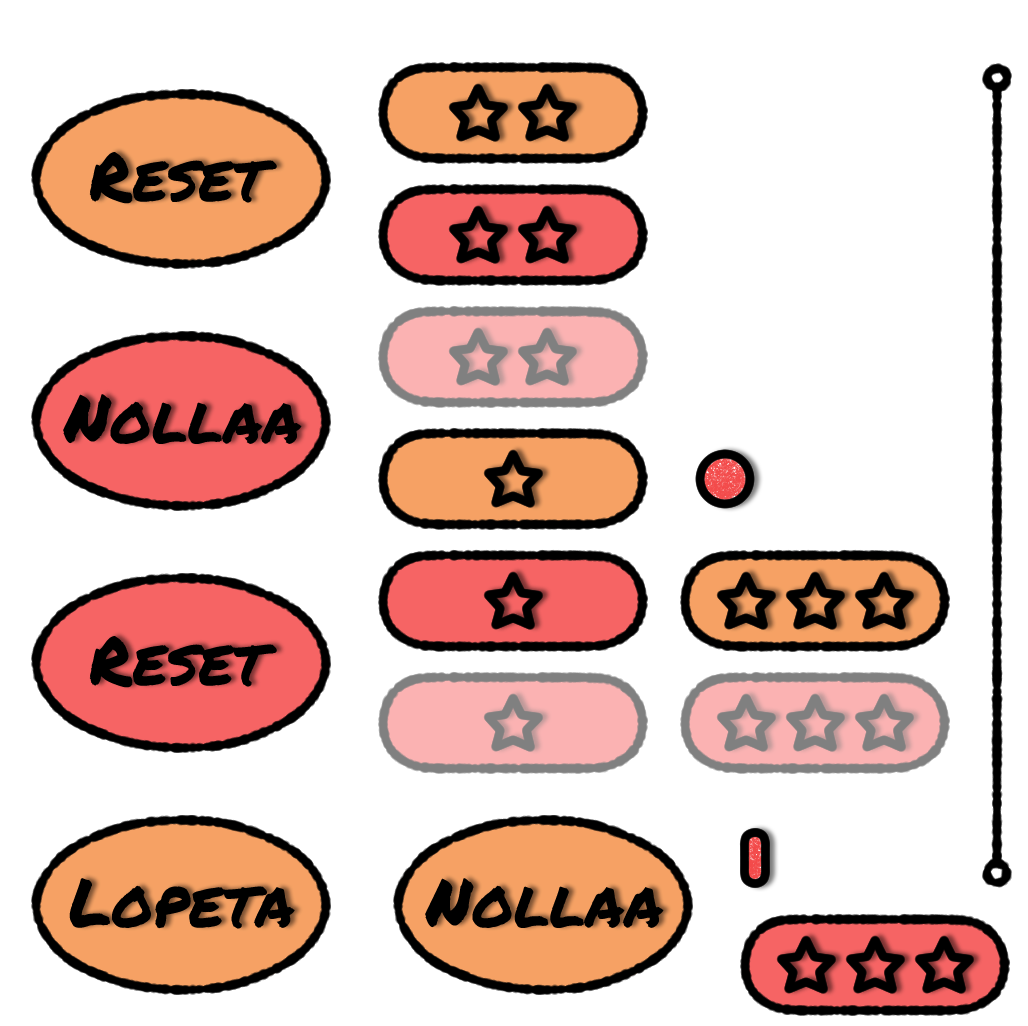
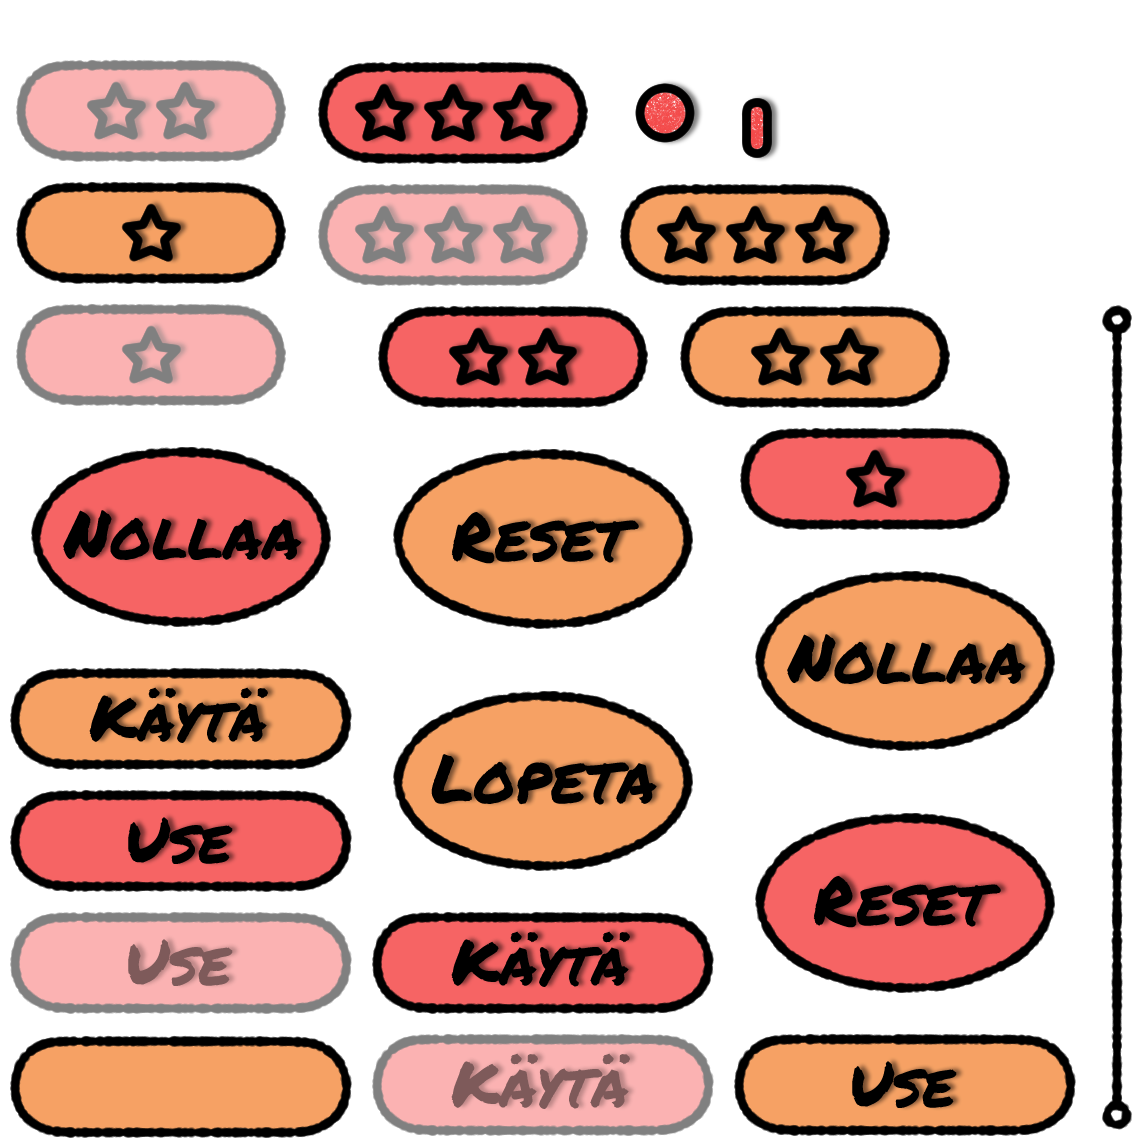
Changed font and background for choosing powerups.

diff --git a/core/src/fi/tamk/fi/RoomTestailua.java b/core/src/fi/tamk/fi/RoomTestailua.java
@@ -23,6 +23,8 @@ import java.util.ArrayList;
 public class RoomTestailua extends RoomParent {
     private Skin testSkin;
 
+    UtilPowerUp utilPowerUp;
+
     private Drawable[] tooltips;
     private Drawable tooltipAttack, tooltipDefend, tooltipItem;
 
@@ -52,10 +54,27 @@ public class RoomTestailua extends RoomParent {
         createButtonHacking();
         createButtonHacking2();
         createButtonDialog();
+        createButtonPowerup();
         // playMusic();
 
         // Added for testing.
         createButtonItemTesting();
+    }
+
+    public void createButtonPowerup() {
+        final TextButton buttonSettings = new TextButton("PowerUp", skin);
+        buttonSettings.setWidth(300f);
+        buttonSettings.setHeight(100f);
+        buttonSettings.setPosition(game.pixelWidth /2 - buttonSettings.getWidth() /2 + 300,
+                (game.pixelHeight/3) *2 - buttonSettings.getHeight() /2);
+        stage.addActor(buttonSettings);
+
+        buttonSettings.addListener(new ClickListener(){
+            @Override
+            public void clicked(InputEvent event, float x, float y){
+                utilPowerUp = new UtilPowerUp(game);
+            }
+        });
     }
 
     public void playMusic() {

diff --git a/core/src/fi/tamk/fi/UtilPowerUp.java b/core/src/fi/tamk/fi/UtilPowerUp.java
@@ -24,6 +24,7 @@ public class UtilPowerUp {
     private Files files;
     private Stage stage;
     private Skin skin;
+    private Skin finalSkin;
     private Texture background, popup;
     private float backgroundX, backgroundY, popupX, popupY;
     private BitmapFont bigFont;
@@ -49,6 +50,7 @@ public class UtilPowerUp {
         dialog = game.getDialog();
         background = files.powerUpBg;
         popup = files.powerUpPopup;
+        finalSkin = files.finalSkin;
 
         // Create constants for text
         descriptionLabelStyle = game.getDescriptionLabelStyle();
@@ -90,10 +92,10 @@ public class UtilPowerUp {
 
     // Draws Choose PowerUp centered
     private void drawChoosePowerUp() {
-        final GlyphLayout layout = new GlyphLayout(bigFont, "Choose PowerUp");
+        final GlyphLayout layout = new GlyphLayout(finalSkin.getFont("font-large"), "Choose PowerUp");
         final float fontX = game.pixelWidth/2 - layout.width / 2;
         final float fontY = game.pixelHeight -200 - layout.height / 2;
-        bigFont.draw(batch, layout, fontX, fontY);
+        finalSkin.getFont("font-large").draw(batch, layout, fontX, fontY);
     }
 
     // If powerup is clicked, draw popup background

diff --git a/core/src/fi/tamk/fi/Files.java b/core/src/fi/tamk/fi/Files.java
@@ -95,7 +95,7 @@ public class Files {
         escapeBg = manager.get("texture/escapeBackground.png");
         hpBarLeft = manager.get("texture/hpbar_left.png");
         hpBarRight = manager.get("texture/hpbar_right.png");
-        powerUpBg = manager.get("texture/powerUpBg.jpg");
+        powerUpBg = manager.get("texture/powerUpBg.png");
         powerUpPopup = manager.get("texture/powerUpPopup.jpg");
         itemBg = manager.get("texture/itemBg.jpg");
 
@@ -227,7 +227,7 @@ public class Files {
         manager.load("texture/escapeBackground.png", Texture.class);
         manager.load("texture/hpbar_left.png", Texture.class);
         manager.load("texture/hpbar_right.png", Texture.class);
-        manager.load("texture/powerUpBg.jpg", Texture.class);
+        manager.load("texture/powerUpBg.png", Texture.class);
         manager.load("texture/powerUpPopup.jpg", Texture.class);
         manager.load("texture/itemBg.jpg", Texture.class);
         // Bosses
